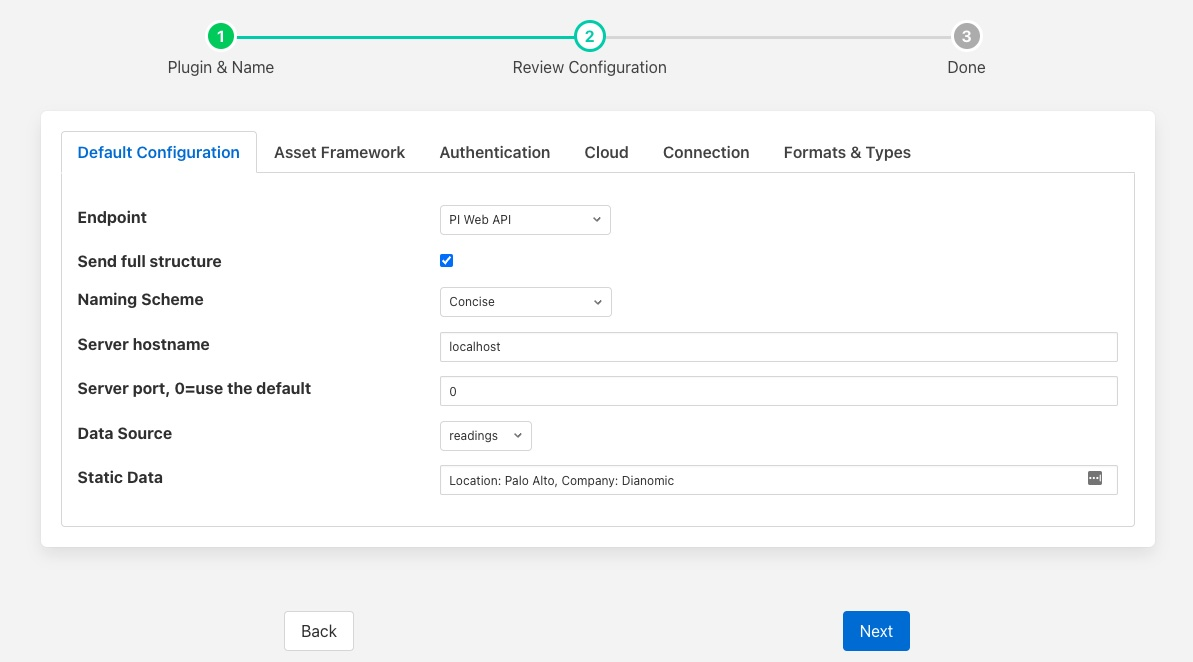
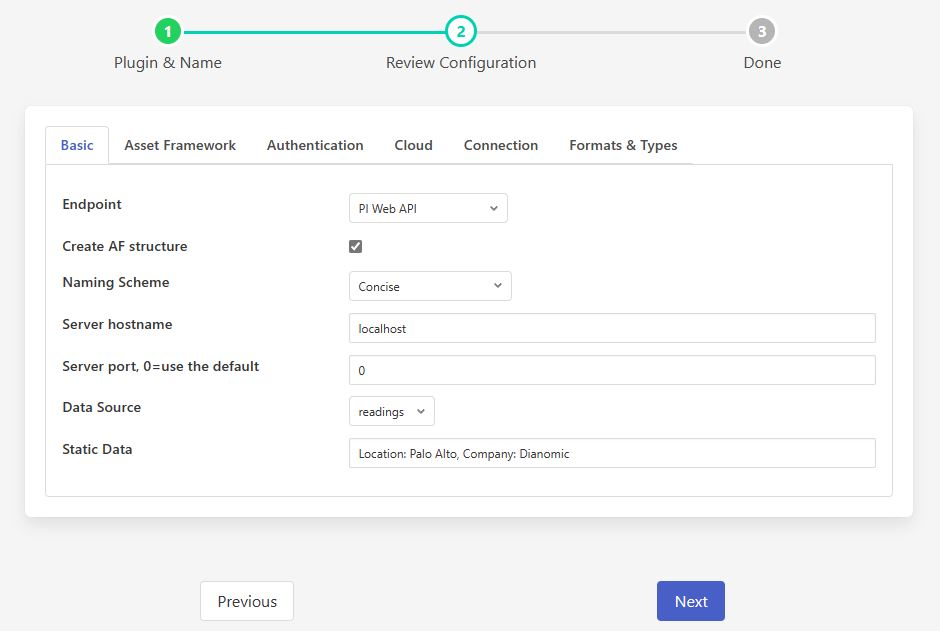
PR 1256 1257 cherry pick (#1259)
* Added AVEVA version information

Add the section OMF Version Support to document the version of OMF that will be used to post data to the various versions of PI Web API, Edge Data Store (EDS), and AVEVA Data Hub (ADH).

* Renamed Send full structure configuration boolean

Renamed configuration boolean Send full structure to Create AF Structure.

* Updated OMF_Default

Updated OMF_Default to rename "Send full structure" to "Create AF Structure."

* Merge pull request #1256 from fledge-iot/FOGL-7649

FOGL-7649: Document OMF and AVEVA product versions

* FOGL-8346 Fix lookup data index when using TagName hints.  (#1257)

* FOGL-8365 Removed reserved characters from container names

* FOGL-8365 Fix lookup data index when using TagName hints. Also fix AF
placement and dynamic changing of TagName hint value such that it recreates
containers in an efficient fashion.

---------

---------

diff --git a/C/plugins/north/OMF/linkdata.cpp b/C/plugins/north/OMF/linkdata.cpp
@@ -76,6 +76,8 @@ string OMFLinkedData::processReading(const Reading& reading, const string&  AFHi
 
 
 	string assetName = reading.getAssetName();
+	string originalAssetName = OMF::ApplyPIServerNamingRulesObj(assetName, NULL);
+
 	// Apply any TagName hints to modify the containerid
 	if (hints)
 	{
@@ -109,14 +111,14 @@ string OMFLinkedData::processReading(const Reading& reading, const string&  AFHi
 	assetName = OMF::ApplyPIServerNamingRulesObj(assetName, NULL);
 
 	bool needDelim = false;
-	auto assetLookup = m_linkedAssetState->find(assetName + ".");
+	auto assetLookup = m_linkedAssetState->find(originalAssetName + ".");
 	if (assetLookup == m_linkedAssetState->end())
 	{
 		// Panic Asset lookup not created
-		Logger::getLogger()->fatal("FIXME: no asset lookup item for %s.", assetName.c_str());
+		Logger::getLogger()->error("Internal error: No asset lookup item for %s.", assetName.c_str());
 		return "";
 	}
-	if (m_sendFullStructure && assetLookup->second.assetState() == false)
+	if (m_sendFullStructure && assetLookup->second.assetState(assetName) == false)
 	{
 		// Send the data message to create the asset instance
 		outData.append("{ \"typeid\":\"FledgeAsset\", \"values\":[ { \"AssetId\":\"");
@@ -124,7 +126,7 @@ string OMFLinkedData::processReading(const Reading& reading, const string&  AFHi
             	outData.append(assetName + "\"");
          	outData.append("} ] }");
 		needDelim = true;
-		assetLookup->second.assetSent();
+		assetLookup->second.assetSent(assetName);
 	}
 
 	/**
@@ -183,17 +185,18 @@ string OMFLinkedData::processReading(const Reading& reading, const string&  AFHi
 
 			// Create the link for the asset if not already created
 			string link = assetName + "." + dpName;
-			auto dpLookup = m_linkedAssetState->find(link);
+			string dpLookupName = originalAssetName + "." + dpName;
+			auto dpLookup = m_linkedAssetState->find(dpLookupName);
 
 			string baseType = getBaseType(dp, format);
 			if (dpLookup == m_linkedAssetState->end())
 			{
 				Logger::getLogger()->error("Trying to send a link for a datapoint for which we have not created a base type");
 			}
-			else if (dpLookup->second.containerState() == false)
+			else if (dpLookup->second.containerState(assetName) == false)
 			{
 				sendContainer(link, dp, hints, baseType);
-				dpLookup->second.containerSent(baseType);
+				dpLookup->second.containerSent(assetName, baseType);
 			}
 			else if (baseType.compare(dpLookup->second.getBaseTypeString()) != 0)
 			{
@@ -210,7 +213,7 @@ string OMFLinkedData::processReading(const Reading& reading, const string&  AFHi
 				else
 				{
 					sendContainer(link, dp, hints, baseType);
-					dpLookup->second.containerSent(baseType);
+					dpLookup->second.containerSent(assetName, baseType);
 				}
 			}
 			if (baseType.empty())
@@ -219,7 +222,7 @@ string OMFLinkedData::processReading(const Reading& reading, const string&  AFHi
 				skippedDatapoints.push_back(dpName);
 				continue;
 			}
-			if (m_sendFullStructure && dpLookup->second.linkState() == false)
+			if (m_sendFullStructure && dpLookup->second.linkState(assetName) == false)
 			{
 				outData.append("{ \"typeid\":\"__Link\",");
 				outData.append("\"values\":[ { \"source\" : {");
@@ -229,7 +232,7 @@ string OMFLinkedData::processReading(const Reading& reading, const string&  AFHi
 				outData.append("\"containerid\" : \"");
 				outData.append(link);
 				outData.append("\" } } ] },");
-				dpLookup->second.linkSent();
+				dpLookup->second.linkSent(assetName);
 			}
 
 			// Convert reading data into the OMF JSON string
@@ -595,10 +598,37 @@ void LALookup::setBaseType(const string& baseType)
 
 /**
  * The container has been sent with the specific base type
+ *
+ * @param tagName	The name of the tag we are using
+ * @param baseType	The baseType we resolve to
  */
-void LALookup::containerSent(const std::string& baseType)
+void LALookup::containerSent(const std::string& tagName, OMFBaseType baseType)
+{
+	if (m_tagName.compare(tagName))
+	{
+		// Force a new Link and AF Link to be sent for the new tag name
+		m_sentState &= ~(LAL_LINK_SENT | LAL_AFLINK_SENT);
+	}
+	m_baseType = baseType;
+	m_tagName = tagName;
+	m_sentState |= LAL_CONTAINER_SENT;
+}
+
+/**
+ * The container has been sent with the specific base type
+ *
+ * @param tagName	The name of the tag we are using
+ * @param baseType	The baseType we resolve to
+ */
+void LALookup::containerSent(const std::string& tagName, const std::string& baseType)
 {
 	setBaseType(baseType);
+	if (m_tagName.compare(tagName))
+	{
+		// Force a new Link and AF Link to be sent for the new tag name
+		m_sentState &= ~(LAL_LINK_SENT | LAL_AFLINK_SENT);
+	}
+	m_tagName = tagName;
 	m_sentState |= LAL_CONTAINER_SENT;
 }
 

diff --git a/C/plugins/north/OMF/include/linkedlookup.h b/C/plugins/north/OMF/include/linkedlookup.h
@@ -28,20 +28,53 @@ typedef enum {
 class LALookup {
 	public:
 		LALookup()	{ m_sentState = 0; m_baseType = OMFBT_UNKNOWN; };
-		bool		assetState() { return (m_sentState & LAL_ASSET_SENT) != 0; };
-		bool		linkState() { return (m_sentState & LAL_LINK_SENT) != 0; };
-		bool		containerState() { return (m_sentState & LAL_CONTAINER_SENT) != 0; };
+		bool		assetState(const std::string& tagName)
+				{
+					return ((m_sentState & LAL_ASSET_SENT) != 0)
+						&& (m_tagName.compare(tagName) == 0);
+				};
+		bool		linkState(const std::string& tagName)
+				{
+					return ((m_sentState & LAL_LINK_SENT) != 0)
+						&& (m_tagName.compare(tagName) == 0);
+				};
+		bool		containerState(const std::string& tagName)
+	       			{
+				       	return ((m_sentState & LAL_CONTAINER_SENT) != 0)
+						&& (m_tagName.compare(tagName) == 0);
+				};
 		bool		afLinkState() { return (m_sentState & LAL_AFLINK_SENT) != 0; };
 		void		setBaseType(const std::string& baseType);
 		OMFBaseType	getBaseType() { return m_baseType; };
 		std::string	getBaseTypeString();
-		void		assetSent() { m_sentState |= LAL_ASSET_SENT; };
-		void		linkSent() { m_sentState |= LAL_LINK_SENT; };
+		void		assetSent(const std::string& tagName)
+				{
+					if (m_tagName.compare(tagName))
+					{
+						m_sentState = LAL_ASSET_SENT;
+						m_tagName = tagName;
+					}
+					else
+					{
+						m_sentState |= LAL_ASSET_SENT;
+					}
+				};
+		void		linkSent(const std::string& tagName)
+				{
+					if (m_tagName.compare(tagName))
+					{
+						// Force the container to resend if the tagName changes
+						m_tagName = tagName;
+						m_sentState &= ~LAL_CONTAINER_SENT;
+					}
+					m_sentState |= LAL_LINK_SENT;
+				};
 		void		afLinkSent() {  m_sentState |= LAL_AFLINK_SENT; };
-		void		containerSent(const std::string& baseType);
-		void		containerSent(OMFBaseType baseType) { m_baseType = baseType; };
+		void		containerSent(const std::string& tagName, const std::string& baseType);
+		void		containerSent(const std::string& tagName, OMFBaseType baseType);
 	private:
 		uint8_t		m_sentState;
 		OMFBaseType	m_baseType;
+		std::string	m_tagName;
 };
 #endif

diff --git a/C/plugins/north/OMF/omf.cpp b/C/plugins/north/OMF/omf.cpp
@@ -2302,6 +2302,7 @@ std::string OMF::createLinkData(const Reading& reading,  std::string& AFHierarch
 
 	long typeId = getAssetTypeId(assetName);
 
+
 	string lData = "{\"typeid\": \"__Link\", \"values\": [";
 
 	// Handles the structure for the Connector Relay
@@ -2354,8 +2355,31 @@ std::string OMF::createLinkData(const Reading& reading,  std::string& AFHierarch
 		}
 		else
 		{
+			// Get the new asset name after hints are applied for the linked data messages
+			string newAssetName = assetName;
+			if (hints)
+			{
+				const std::vector<OMFHint *> omfHints = hints->getHints();
+				for (auto it = omfHints.cbegin(); it != omfHints.cend(); it++)
+				{
+					if (typeid(**it) == typeid(OMFTagNameHint))
+					{
+						string hintValue = (*it)->getHint();
+						Logger::getLogger()->info("Using OMF TagName hint: %s for asset %s",
+							       hintValue.c_str(), assetName.c_str());
+						newAssetName = hintValue;
+					}
+					if (typeid(**it) == typeid(OMFTagHint))
+					{
+						string hintValue = (*it)->getHint();
+						Logger::getLogger()->info("Using OMF Tag hint: %s for asset %s",
+							       hintValue.c_str(), assetName.c_str());
+						newAssetName = hintValue;
+					}
+				}
+			}
 			StringReplace(tmpStr, "_placeholder_tgt_type_", "FledgeAsset");
-			StringReplace(tmpStr, "_placeholder_tgt_idx_", assetName);
+			StringReplace(tmpStr, "_placeholder_tgt_idx_", newAssetName);
 		}
 
 		lData.append(tmpStr);

diff --git a/docs/OMF.rst b/docs/OMF.rst
@@ -132,7 +132,7 @@ The *Default Configuration* tab contains the most commonly modified items
 
     - *Edge Data Store* - The OSISoft Edge Data Store 
 
-  - **Send full structure**: Used to control if Asset Framework structure messages are sent to the PI Server. If this is turned off then the data will not be placed in the Asset Framework.
+  - **Create AF Structure**: Used to control if Asset Framework structure messages are sent to the PI Server. If this is turned off then the data will not be placed in the Asset Framework.
      
   - **Naming scheme**: Defines the naming scheme to be used when creating the PI points in the PI Data Archive. See :ref:`Naming_Scheme`.
 
@@ -667,3 +667,28 @@ Versions of this plugin prior to 2.1.0 created a complex type within OMF for eac
 
 As of version 2.1.0 this linking approach is used for all new assets created, if assets exist within the PI Server from versions of the plugin prior to 2.1.0 then the older, complex types will be used. It is possible to force the plugin to use complex types for all assets, both old and new, using the configuration option. It is also to force a particular asset to use the complex type mechanism using an OMFHint.
 
+OMF Version Support
+-------------------
+
+To date, AVEVA has released three versions of the OSIsoft Message Format (OMF) specification: 1.0, 1.1 and 1.2.
+The OMF Plugin supports all three OMF versions.
+The plugin will determine the OMF version to use by reading product version information from the AVEVA data destination system.
+These are the OMF versions the plugin will use to post data:
+
++-----------+----------+---------------------+
+|OMF Version|PI Web API|Edge Data Store (EDS)|
++===========+==========+=====================+
+|        1.2|- 2021    |- 2023               |
+|           |- 2021 SP1|- 2023 Patch 1       |
+|           |- 2021 SP2|                     |
+|           |- 2021 SP3|                     |
+|           |- 2023    |                     |
++-----------+----------+---------------------+
+|        1.1|- 2019    |                     |
+|           |- 2019 SP1|                     |
++-----------+----------+---------------------+
+|        1.0|          |- 2020               |
++-----------+----------+---------------------+
+
+The AVEVA Data Hub (ADH) is cloud-deployed and is always at the latest version of OMF support which is 1.2.
+This includes the legacy OSIsoft Cloud Services (OCS) endpoints.
